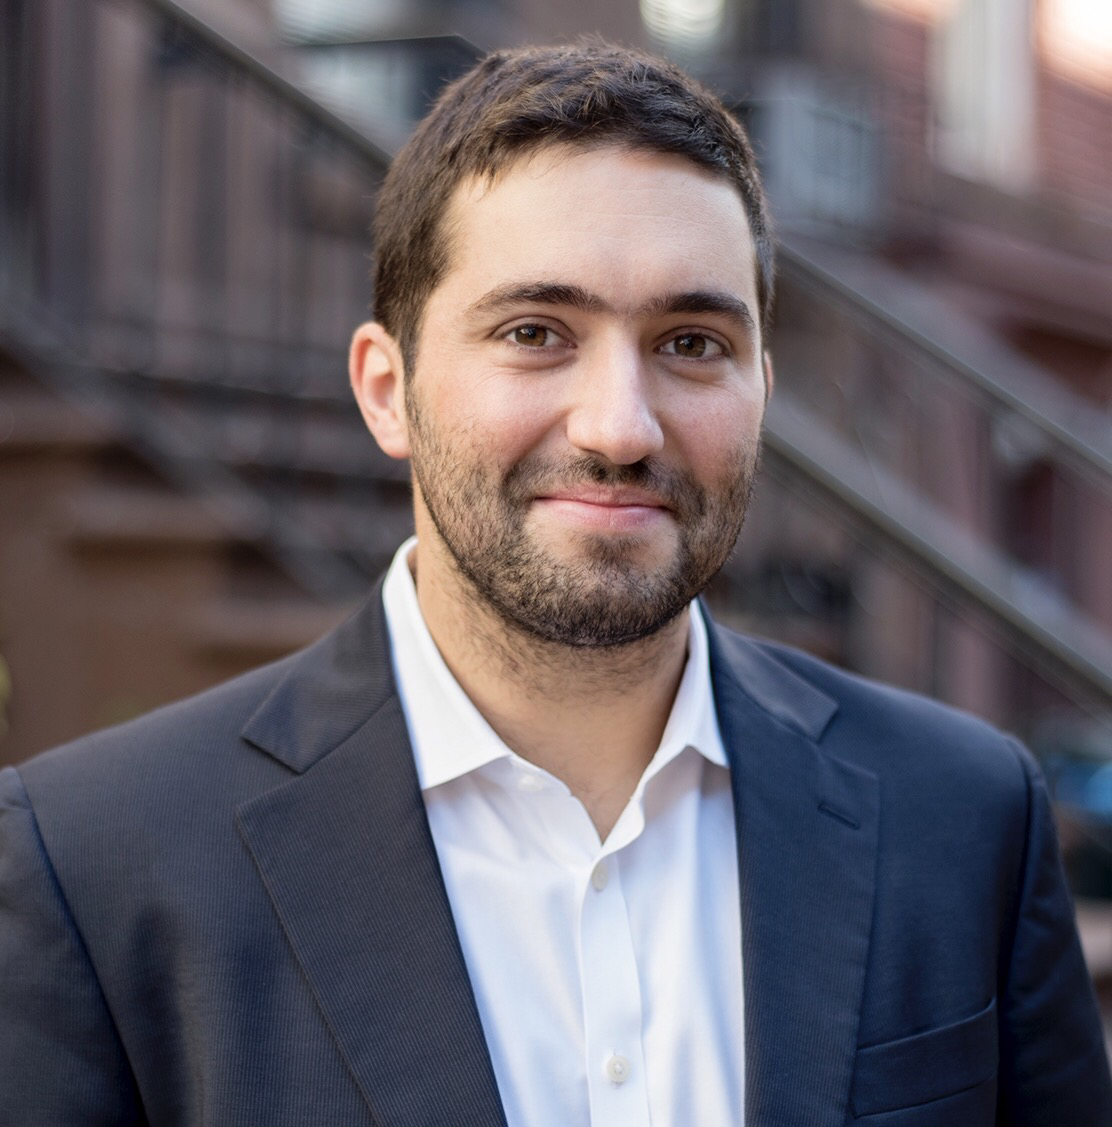
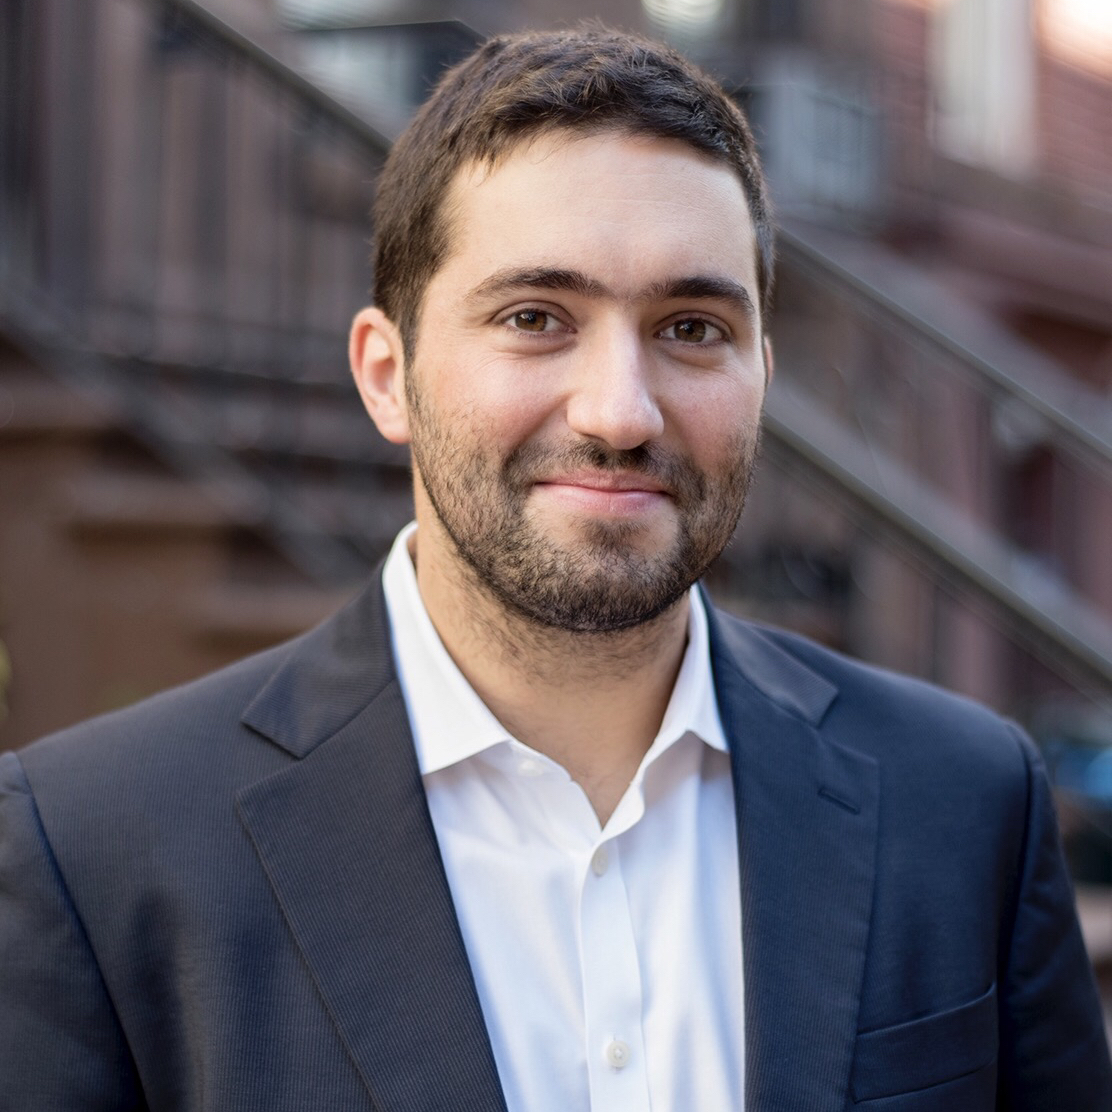
made member pictures smaller and squarified Nacho and Karen's photos

diff --git a/members/index.html b/members/index.html
@@ -17,11 +17,11 @@ categories:
 {% assign loopindex = -1 %}
 {% for member in site.categories.members reversed %}
   {% if member.board %}
-    {% assign loopindex = counter | modulo: 3 %}
+    {% assign loopindex = counter | modulo: 4 %}
     {% if loopindex == 1 %}
   <div class="row">
     {% endif %}
-    <div class="col-sm-4 text-center smallhead">
+    <div class="col-sm-3 text-center smallhead">
       <a href="{{ member.url }}">
         <img class="member-img" src="{{ member.image }}">
       </a>
@@ -29,7 +29,7 @@ categories:
       <a href="{{ member.url }}" class="off">
         <b>{{ member.title }}</b>
       </a>
-      <p>{{ member.position }} / {{ member.degree }}</p>
+      <p>{{ member.position }}<br>{{ member.degree }}</p>
       <div class="spacer"></div>
       <div class="spacer"></div>
     </div>
@@ -118,11 +118,11 @@ categories:
 {% assign loopindex = -1 %}
 {% for member in site.categories.members reversed %}
   {% if member.founder %}
-    {% assign loopindex = counter | modulo: 3 %}
+    {% assign loopindex = counter | modulo: 4 %}
     {% if loopindex == 1 %}
   <div class="row">
     {% endif %}
-    <div class="col-sm-4 text-center smallhead">
+    <div class="col-sm-3 text-center smallhead">
       <a href="{{ member.url }}">
         <img class="member-img" src="{{ member.image }}">
       </a>
@@ -130,7 +130,7 @@ categories:
       <a href="{{ member.url }}" class="off">
         <b>{{ member.title }}</b>
       </a>
-      <p>{{ member.position }} / {{ member.degree }}</p>
+      <p>{{ member.position }}<br>{{ member.degree }}</p>
       <div class="spacer"></div>
       <div class="spacer"></div>
     </div>
